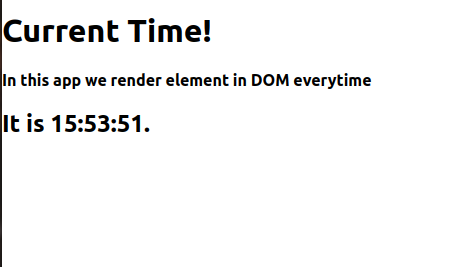
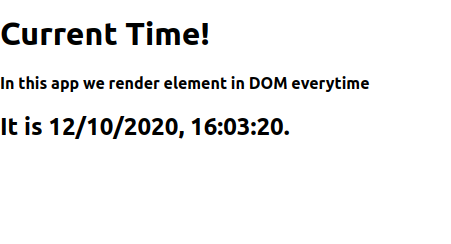
changes

Changed region(s): [[0.0, 0.0, 0.8381, 1.0]]

diff --git a/src/App.tsx b/src/App.tsx
@@ -5,7 +5,7 @@ function App() {
         <div>
             <h1>Current Time!</h1>
             <h4>In this app we render element in DOM everytime</h4>
-            <h2>It is {new Date().toLocaleTimeString()}.</h2>
+            <h2>It is {new Date().toLocaleString()}.</h2>
         </div>
     );
 }
